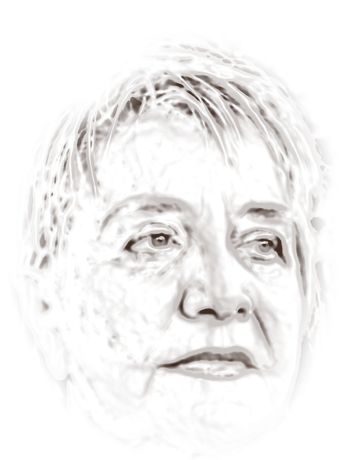
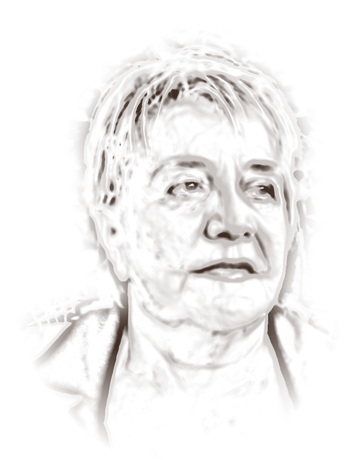
Tela de entrada: retrato com enquadramento mais aberto
Claude-Session: https://claude.ai/code/session_01A7H7r1adLhwErtntXZQGG6

diff --git a/src/estilos.css b/src/estilos.css
@@ -354,7 +354,7 @@ a.numero:hover { outline: 1px solid var(--linha); }
   position: absolute; left: 11.9%; top: 9.43%; width: 76.2%; height: 81.1%;
   border-radius: 50%; overflow: hidden; background: var(--folha);
 }
-.retrato-foto img { width: 100%; height: 100%; object-fit: cover; object-position: 50% 30%; opacity: 0.9; }
+.retrato-foto img { width: 100%; height: 100%; object-fit: cover; object-position: 50% 40%; opacity: 0.9; }
 .retrato svg { position: absolute; inset: 0; width: 100%; height: 100%; }
 
 .ficha-entrada {
